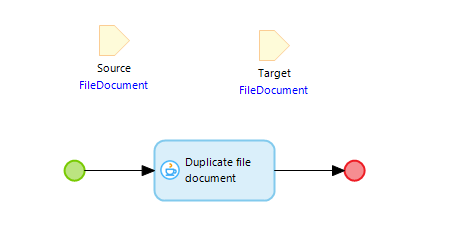
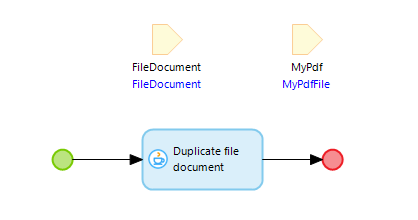
file handling

diff --git a/additional/01-howtos/08-tips-and-tricks/handle-files.md b/additional/01-howtos/08-tips-and-tricks/handle-files.md
@@ -1,14 +1,21 @@
 # Handle files
 
-MTA does not (yet) allow uploading a **FileDocument** into your App.
+MTA does not (yet) allow uploading a `FileDocument` into your Test App.
 
 This also means, that using Binary attributes is not (yet) supported.
 
-If it is necessary to test a process that includes or requires uploading a file, it is recommended to perform these steps:
+However, there are some ways to include the Uploading and Downloading of files into your test process. 
+Using a [UI testscript](../design-tests/test-ui-with-mta) is the recommended approach.
+
+It is also possible to use an extension microflow inside the Test App to create the files. 
+
+## Duplicate existing FileDocument
+
 - Create (if not yet exists) an MTA extension module in the tested App.
-- Add an entity that inherits from FileDocument.
-- Add an attribute that can be used to uniquely identify an uploaded file.
-- Build a page to upload files into this entity.
+- Add a User to the module.
+- Add an entity that inherits from FileDocument or Image, for instance `MyPdfFile`.
+- Give the User full access to that entity.
+- Build a NewEdit Page to upload files of this type.
 - Create a microflow with only a single (Java) Duplicate File Document action from the Community Commons module. It should look like this:
 ![Duplicate File Document microflow](../images/duplicate-filedoc.png)
 
@@ -19,6 +26,17 @@ Now, it is possible to use this pattern in a Test Case, to test processes that r
 4. Microflow call to the abovementioned microflow with parameters: teststep 1 as Target, and teststep 3 as Source.
 5. Other logic to perform the actual test.
 6. Optional delete logic to clean up.
+
+## Create FileDocument from a Base64 string
+
+- Create (if not yet exists) an MTA extension module in the tested App.
+- Add a User to the module.
+- Add an entity that inherits from FileDocument or Image, for instance `MyImage`.
+- Give the User full access to that entity.
+- Create a microflow that decodes a String to a FileDocument using the (Java) Base64 decode to file action from the Community Commons module. It should look like this:
+![Create File from Base64 String](../images/image-from-base64.png)
+
+An example String that decodes into the Menditect Logo can be found [here](../images/menditectlogo.txt).
 
 ## Feedback?
 Missing anything? [Let us know!](mailto:support@menditect.com)

diff --git a/additional/01-howtos/03-design-tests/test-ui-with-mta.md b/additional/01-howtos/03-design-tests/test-ui-with-mta.md
@@ -252,9 +252,11 @@ More Widgets will be added in future releases.
 
 In order to test custom made Widgets from the Marketplace, it is advisable to use the Starter Kit only as inspiration, but to replace it by your own Locator and Action Module that uses the Playwright Connector to execute the corresponding Playwright commands. 
 
-Mendix will add the "mx-name-`widgetName`" class to any Widget that you add to a Page or Snippet, so it is always possible to create a Locator for the surrounding HTML element. However in most cases you will want to add another Locator inside that Locator, so define Actions for child elements.
+Mendix will add the "mx-name-`widgetName`" class to every widget on the Page, so it is always possible to create a Locator for the surrounding HTML element. However in most cases you will want to add another Locator inside that Locator, so define Actions for child elements.
 
 ### Snippets
+
+Mendix will add the "mx-name-`snippetCallName`-`widgetName` for some Widgets from older Mendix versions. In newer versions, the the "mx-name-`widgetName`" is used. Take this into account when creating enumeration values.
 
 Important note: Snippets are not rendered as HTML elements by Mendix, even though Mendix does allow for adding a Class to a Snippet. In order to define Locators for Widgets inside a Snippet, is is always required to add a surrounding Container (rendered as a DIV element) to locate it.
 
